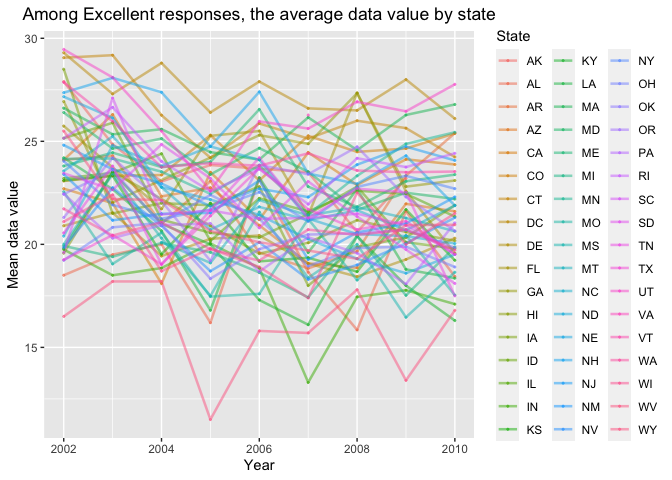
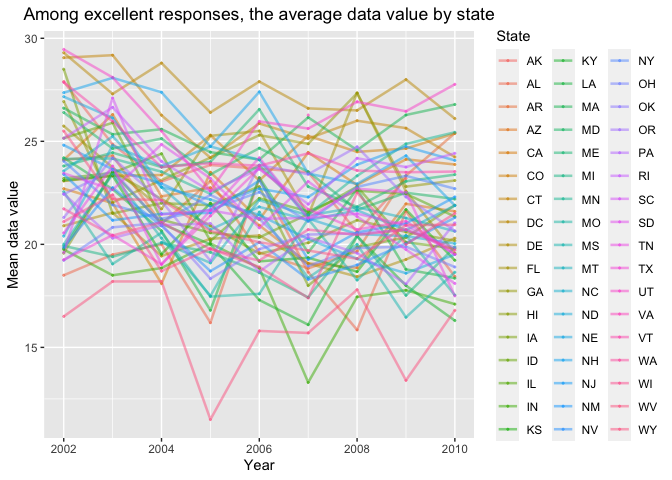
Formatting updates

Changed region(s): [[0.0312, 0.0, 0.75, 0.0625]]

diff --git a/p8105_hw3_jdr2191.md b/p8105_hw3_jdr2191.md
@@ -114,7 +114,7 @@ care”, “pantry” and “snacks”.
 The plot “Total number of orders placed by day of the week” displays the
 total number of orders placed by the day of the week. From this table,
 we see that the most orders are placed on Sundays, followed by Mondays
-and Saturdays. The fewest orders are placd on Wednesdays.
+and Saturdays. The fewest orders are placed on Wednesdays.
 
 There are 1384617 observations and 15 variables in the instacart
 dataset. Each row in the dataset represents an item ordered by a
@@ -128,8 +128,7 @@ deli. The dataset provides detailed information about the hour and day
 of the week that orders are placed and even tells us the order in which
 products were added to orders.
 
-How many aisles are there, and which aisles are the most items ordered
-from?
+### How many aisles are there, and which aisles are the most items ordered from?
 
 ``` r
 aisles = 
@@ -157,9 +156,10 @@ aislesplot =
     filter(sum_products_ordered > 10000)
 
 aislesplot %>%
-  ggplot(aes(x = reorder(aisle, -sum_products_ordered), y = sum_products_ordered)) + 
+  ggplot(aes(x = reorder(aisle, sum_products_ordered), 
+             y = sum_products_ordered)) + 
+  coord_flip() +
   geom_bar(stat = "identity", fill = "#6699ff") +
-  theme(axis.text.x = element_text(angle = 90,hjust = 1,vjust = 0.5)) +
   ggtitle("The sum of items ordered in each aisle among aisles 
           with more than 10,000 items ordered") +
   theme(plot.title = element_text(hjust = 0.5)) +
@@ -303,7 +303,7 @@ brfssexcellent_df2 %>%
   geom_line(aes(group = locationabbr, color = locationabbr), size = .9, alpha = .5) +
   geom_point(aes(group = locationabbr, color = locationabbr), size = .4, alpha = .5) +
   labs(x = "Year", y = "Mean data value", col = "State") +
-  ggtitle("Among Excellent responses, the average data value by state") +
+  ggtitle("Among excellent responses, the average data value by state") +
   theme(plot.title = element_text(hjust = 0.5)) 
 ```
 
